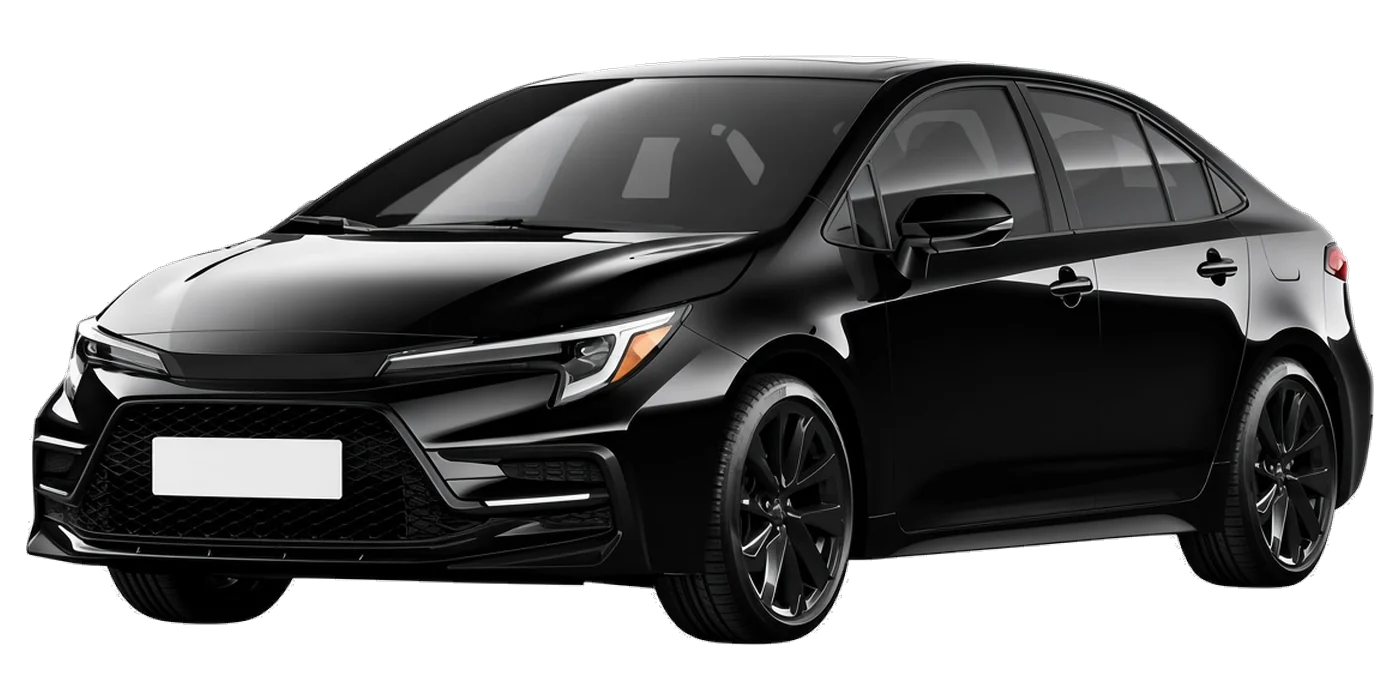
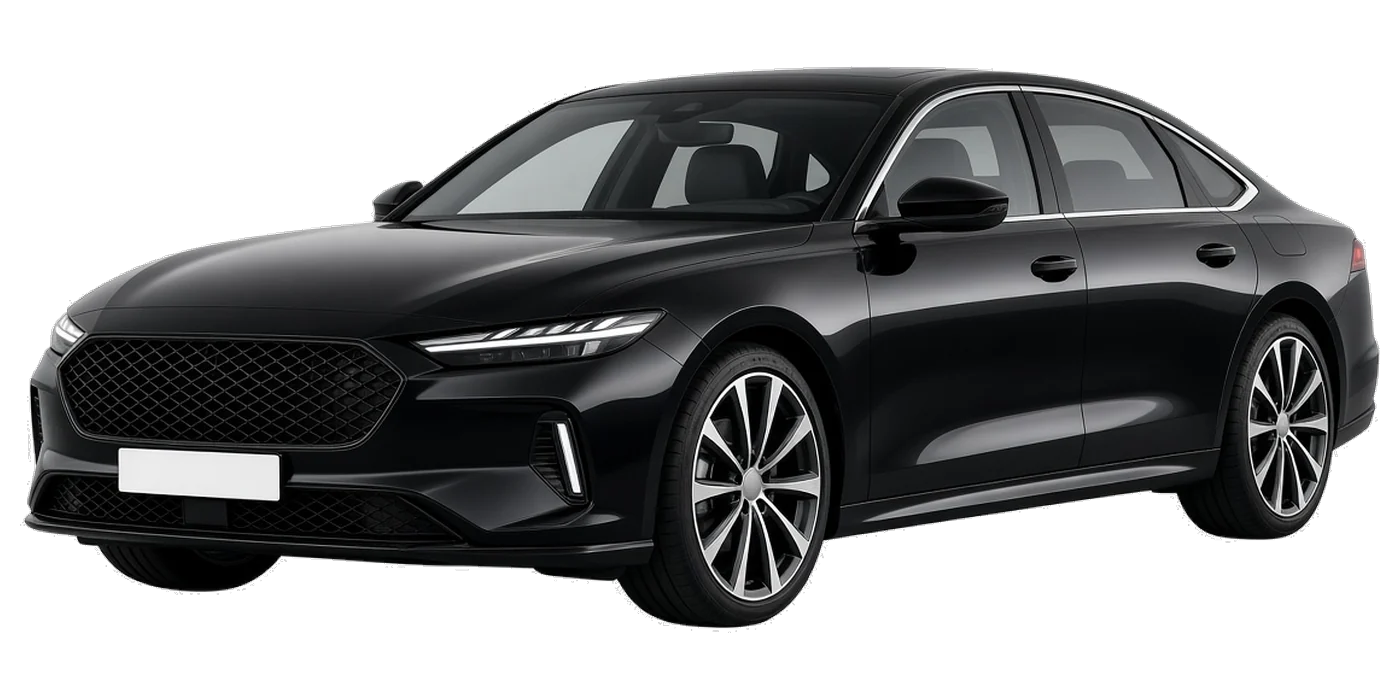
Raise Saloon capacity to 3 large suitcases and refresh the artwork.
The shared Saloon rule now allows 0–3 large suitcases, and quote, chooser, and payment checks use that same limit. Four large suitcases stay with Estate. The Saloon image is a larger modern sedan with no badge or readable plate.

diff --git a/scripts/check-executive-service.ts b/scripts/check-executive-service.ts
@@ -10,11 +10,14 @@ import {
   DEFAULT_EXECUTIVE_UPLIFT_GBP,
   EXECUTIVE_MAX_SUITCASES,
   EXECUTIVE_VEHICLE_TYPE,
+  SALOON_MAX_SUITCASES,
+  estateCapacityAllows,
   executiveAvailableForParty,
   executivePreferenceFields,
   formatExecutivePreferenceLines,
   isPremiumExecutiveVehicle,
   publicVehicleEligibilityMessage,
+  saloonCapacityAllows,
 } from "../shared/executive-service";
 import { defaultOwnerPricingSettings, normalizeOwnerPricingSettings } from "../shared/owner-pricing-config";
 import { getReturnJourneyFare } from "../src/lib/point-to-point-premium";
@@ -85,6 +88,19 @@ assert.equal(executiveAvailableForParty(4, 0), false);
 assert.equal(executiveAvailableForParty(4, 3), false);
 assert.equal(executiveAvailableForParty(3, 5), false);
 assert.equal(EXECUTIVE_MAX_SUITCASES, 3);
+assert.equal(SALOON_MAX_SUITCASES, 3);
+assert.equal(saloonCapacityAllows(2, 1), true);
+assert.equal(saloonCapacityAllows(2, 2), true);
+assert.equal(saloonCapacityAllows(4, 3), true);
+assert.equal(saloonCapacityAllows(2, 4), false);
+assert.equal(saloonCapacityAllows(4, 4), false);
+assert.equal(estateCapacityAllows(4, 4), true);
+assert.equal(estateCapacityAllows(2, 3), true);
+assert.equal(publicVehicleEligibilityMessage(SALOON, 2, 1), null);
+assert.equal(publicVehicleEligibilityMessage(SALOON, 2, 2), null);
+assert.equal(publicVehicleEligibilityMessage(SALOON, 4, 3), null);
+assert.equal(publicVehicleEligibilityMessage(SALOON, 2, 4), "Saloon is not suitable for your luggage.");
+assert.equal(publicVehicleEligibilityMessage(ESTATE, 2, 4), null);
 assert.equal(publicVehicleEligibilityMessage(EXECUTIVE_VEHICLE_TYPE, 2, 3), null);
 assert.equal(
   publicVehicleEligibilityMessage(EXECUTIVE_VEHICLE_TYPE, 2, 4),
@@ -195,7 +211,37 @@ const luggageSaloon = calculateAuthoritativeWebsiteQuote({
   vehicleType: SALOON,
   returnJourney: false,
 });
-assert.equal(luggageSaloon.ok, false);
+assert.equal(luggageSaloon.ok, true);
+
+const oneSuitcaseSaloon = calculateAuthoritativeWebsiteQuote({
+  ...quoteBase,
+  passengers: 2,
+  suitcases: 1,
+  vehicleType: SALOON,
+  returnJourney: false,
+});
+assert.equal(oneSuitcaseSaloon.ok, true);
+
+const twoSuitcaseSaloon = calculateAuthoritativeWebsiteQuote({
+  ...quoteBase,
+  passengers: 2,
+  suitcases: 2,
+  vehicleType: SALOON,
+  returnJourney: false,
+});
+assert.equal(twoSuitcaseSaloon.ok, true);
+
+const fourSuitcaseSaloon = calculateAuthoritativeWebsiteQuote({
+  ...quoteBase,
+  passengers: 2,
+  suitcases: 4,
+  vehicleType: SALOON,
+  returnJourney: false,
+});
+assert.equal(fourSuitcaseSaloon.ok, false);
+if (!fourSuitcaseSaloon.ok) {
+  assert.equal(fourSuitcaseSaloon.reason, "vehicle_unsuitable");
+}
 
 const luggageExecutive = calculateAuthoritativeWebsiteQuote({
   ...quoteBase,
@@ -232,6 +278,18 @@ const voluntaryEstate = calculateAuthoritativeWebsiteQuote({
   returnJourney: false,
 });
 assert.equal(voluntaryEstate.ok, true);
+
+const fourSuitcaseEstate = calculateAuthoritativeWebsiteQuote({
+  ...quoteBase,
+  passengers: 2,
+  suitcases: 4,
+  vehicleType: ESTATE,
+  returnJourney: false,
+});
+assert.equal(fourSuitcaseEstate.ok, true);
+if (fourSuitcaseEstate.ok) {
+  assert.equal(fourSuitcaseEstate.vehicleType, ESTATE);
+}
 if (voluntaryEstate.ok && saloonQuote.ok) {
   assert.equal(voluntaryEstate.vehicleType, ESTATE);
   assert.equal(
@@ -264,9 +322,9 @@ const categories = fs.readFileSync(
   path.join(import.meta.dirname, "../src/components/QuoteVehicleCategories.tsx"),
   "utf8",
 );
-assert.match(categories, /Great value, comfortable travel/);
-assert.match(categories, /Extra luggage space and versatility/);
-assert.match(categories, /Extra comfort for your journey/);
+assert.match(categories, /Modern, comfortable private airport travel/);
+assert.match(categories, /Additional space and luggage capacity/);
+assert.match(categories, /Enhanced comfort and premium extras/);
 assert.match(categories, /Recommended for extra space/);
 assert.match(categories, /Extra luggage space/);
 assert.match(categories, /More room for larger bags/);
@@ -298,6 +356,7 @@ const executiveSource = fs.readFileSync(
 assert.match(executiveSource, /Maximum 3 passengers/);
 assert.match(executiveSource, /Maximum 3 large suitcases/);
 assert.match(executiveSource, /EXECUTIVE_MAX_SUITCASES = 3/);
+assert.match(executiveSource, /SALOON_MAX_SUITCASES = 3/);
 assert.match(categories, /md:grid-cols-3/);
 assert.match(categories, /data-vehicle-expanded=/);
 assert.match(categories, /aria-pressed=\{isSelected\}/);
@@ -310,7 +369,15 @@ assert.match(categories, /quote-minibus\.webp/);
 assert.match(categories, /option\.vehicle === MINIBUS_VEHICLE \|\| option\.vehicle === automatic/);
 assert.doesNotMatch(categories, /\+£6/);
 assert.doesNotMatch(categories, /\+£20/);
-assert.doesNotMatch(categories, /Toyota|Corolla/);
+assert.doesNotMatch(categories, /Toyota|Corolla|Camry/);
+const paymentSource = fs.readFileSync(
+  path.join(import.meta.dirname, "../workers/addresses/src/index.ts"),
+  "utf8",
+);
+assert.match(
+  paymentSource,
+  /publicVehicleEligibilityMessage\(vehicleRaw, partyPassengers, partySuitcases\)/,
+);
 const artwork = fs.readFileSync(path.join(import.meta.dirname, "../src/lib/vehicle-artwork.ts"), "utf8");
 assert.match(artwork, /quote-standard-saloon\.webp/);
 assert.equal(

diff --git a/scripts/check-vehicle-selection.ts b/scripts/check-vehicle-selection.ts
@@ -3,8 +3,8 @@
  * Run: npx tsx scripts/check-vehicle-selection.ts
  *
  * Rule:
- * - Saloon: 1–4 passengers AND 0–2 suitcases
- * - Estate: 1–4 passengers AND 3–4 suitcases
+ * - Saloon: 1–4 passengers AND 0–3 suitcases
+ * - Estate: the default when Saloon cannot take the luggage (4 suitcases)
  * - Minibus: 5–7 passengers (or >4 suitcases for capacity)
  */
 
@@ -30,29 +30,30 @@ function expectVehicle(
   console.log(`OK  ${note}: ${passengers}p / ${suitcases}c → ${vehicleShortLabel(actual)}`);
 }
 
-console.log("=== Saloon (1–4 passengers AND 0–2 cases) ===");
+console.log("=== Saloon (1–4 passengers AND 0–3 cases) ===");
 expectVehicle(1, 0, SALOON_VEHICLE, "1p/0c");
 expectVehicle(1, 2, SALOON_VEHICLE, "1p/2c");
+expectVehicle(1, 3, SALOON_VEHICLE, "1p/3c");
 expectVehicle(2, 0, SALOON_VEHICLE, "2p/0c");
-expectVehicle(2, 2, SALOON_VEHICLE, "2p/2c boundary");
+expectVehicle(2, 2, SALOON_VEHICLE, "2p/2c");
+expectVehicle(2, 3, SALOON_VEHICLE, "2p/3c");
 expectVehicle(3, 0, SALOON_VEHICLE, "3p/0c — pax alone must NOT force Estate");
 expectVehicle(3, 1, SALOON_VEHICLE, "3p/1c");
 expectVehicle(3, 2, SALOON_VEHICLE, "3p/2c");
+expectVehicle(3, 3, SALOON_VEHICLE, "3p/3c");
 expectVehicle(4, 0, SALOON_VEHICLE, "4p/0c");
 expectVehicle(4, 2, SALOON_VEHICLE, "4p/2c");
+expectVehicle(4, 3, SALOON_VEHICLE, "4p/3c");
 
-console.log("\n=== Estate (1–4 pax AND 3–4 cases) ===");
-expectVehicle(1, 3, ESTATE_VEHICLE, "1p/3c");
+console.log("\n=== Estate when Saloon cannot take the luggage ===");
 expectVehicle(2, 4, ESTATE_VEHICLE, "2p/4c");
-expectVehicle(3, 3, ESTATE_VEHICLE, "3p/3c");
 expectVehicle(4, 4, ESTATE_VEHICLE, "4p/4c");
-expectVehicle(2, 3, ESTATE_VEHICLE, "2p/3c luggage threshold");
 
 console.log("\n=== Threshold flips ===");
-expectVehicle(4, 2, SALOON_VEHICLE, "still saloon at 4p/2c");
-expectVehicle(4, 3, ESTATE_VEHICLE, "estate at 4p/3c");
-expectVehicle(2, 2, SALOON_VEHICLE, "still saloon at 2 cases");
-expectVehicle(2, 3, ESTATE_VEHICLE, "estate at 3 cases");
+expectVehicle(4, 3, SALOON_VEHICLE, "still saloon at 4p/3c");
+expectVehicle(4, 4, ESTATE_VEHICLE, "estate at 4p/4c");
+expectVehicle(2, 3, SALOON_VEHICLE, "still saloon at 3 cases");
+expectVehicle(2, 4, ESTATE_VEHICLE, "estate at 4 cases");
 expectVehicle(4, 4, ESTATE_VEHICLE, "still estate at 4p/4c");
 expectVehicle(5, 1, MINIBUS_VEHICLE, "minibus at 5p");
 expectVehicle(4, 4, ESTATE_VEHICLE, "still estate at 4 cases");

diff --git a/src/lib/vehicle-selection.ts b/src/lib/vehicle-selection.ts
@@ -3,8 +3,8 @@
  * Monetary rates live in pricing-config.json and are not defined here.
  *
  * Public website capacity (customers choose among the options this allows):
- * - Standard Saloon: 1–4 passengers AND 0–2 suitcases
- * - Estate Car: suitable for 1–4 passengers and 0–4 suitcases; 3–4 suitcases
+ * - Standard Saloon: 1–4 passengers AND 0–3 suitcases
+ * - Estate Car: suitable for 1–4 passengers and 0–4 suitcases; 4 suitcases
  *   make Estate the lowest-priced suitable option
  * - Executive: 1–3 passengers AND 0–3 large suitcases (service upgrade).
  *   Four large suitcases are not Executive. Never assigned automatically.
@@ -21,8 +21,10 @@
 
 import {
   EXECUTIVE_VEHICLE_TYPE,
+  estateCapacityAllows,
   isLegacyExecutiveSaloon,
   isPremiumExecutiveVehicle,
+  saloonCapacityAllows,
 } from "../../shared/executive-service";
 import { MINIBUS_VEHICLE_TYPE, VEHICLE_TYPES, type VehicleType } from "./data";
 import {
@@ -67,8 +69,12 @@ export function selectVehicleForParty(
   if (requiresMinibus(passengers, suitcases)) {
     return MINIBUS_VEHICLE;
   }
-  // Estate only when luggage needs it — not merely because passengers are 3–4.
-  if (passengers >= 1 && passengers <= 4 && suitcases >= 3 && suitcases <= 4) {
+  // Saloon is the default whenever it fits, including 3 large suitcases.
+  // Estate is the default only when Saloon cannot take the luggage.
+  if (saloonCapacityAllows(passengers, suitcases)) {
+    return SALOON_VEHICLE;
+  }
+  if (estateCapacityAllows(passengers, suitcases)) {
     return ESTATE_VEHICLE;
   }
   return SALOON_VEHICLE;

diff --git a/shared/executive-service.ts b/shared/executive-service.ts
@@ -15,7 +15,8 @@ export const EXECUTIVE_MAX_PASSENGERS = 3;
 /** Up to 3 large suitcases. Four or more is not Executive. */
 export const EXECUTIVE_MAX_SUITCASES = 3;
 export const SALOON_MAX_PASSENGERS = 4;
-export const SALOON_MAX_SUITCASES = 2;
+/** Up to 3 large suitcases. Four large suitcases are not a Saloon booking. */
+export const SALOON_MAX_SUITCASES = 3;
 export const ESTATE_MAX_PASSENGERS = 4;
 export const ESTATE_MAX_SUITCASES = 4;
 
@@ -57,7 +58,7 @@ export function isLegacyExecutiveSaloon(vehicle: string | null | undefined): boo
   return /executive/i.test(value) && /saloon/i.test(value);
 }
 
-/** Saloon: 1–4 passengers and 0–2 large suitcases. */
+/** Saloon: 1–4 passengers and 0–3 large suitcases. */
 export function saloonCapacityAllows(passengers: number, suitcases: number): boolean {
   return (
     wholeInRange(passengers, 1, SALOON_MAX_PASSENGERS) &&
@@ -76,9 +77,9 @@ export function estateCapacityAllows(passengers: number, suitcases: number): boo
   );
 }
 
-/** True when 3–4 large suitcases make Estate the appropriate option. */
+/** True when Estate fits and Saloon does not, currently 4 large suitcases. */
 export function estateRecommendedForLuggage(passengers: number, suitcases: number): boolean {
-  return estateCapacityAllows(passengers, suitcases) && suitcases >= 3;
+  return estateCapacityAllows(passengers, suitcases) && !saloonCapacityAllows(passengers, suitcases);
 }
 
 /**

diff --git a/workers/addresses/shared/executive-service.ts b/workers/addresses/shared/executive-service.ts
@@ -15,7 +15,8 @@ export const EXECUTIVE_MAX_PASSENGERS = 3;
 /** Up to 3 large suitcases. Four or more is not Executive. */
 export const EXECUTIVE_MAX_SUITCASES = 3;
 export const SALOON_MAX_PASSENGERS = 4;
-export const SALOON_MAX_SUITCASES = 2;
+/** Up to 3 large suitcases. Four large suitcases are not a Saloon booking. */
+export const SALOON_MAX_SUITCASES = 3;
 export const ESTATE_MAX_PASSENGERS = 4;
 export const ESTATE_MAX_SUITCASES = 4;
 
@@ -57,7 +58,7 @@ export function isLegacyExecutiveSaloon(vehicle: string | null | undefined): boo
   return /executive/i.test(value) && /saloon/i.test(value);
 }
 
-/** Saloon: 1–4 passengers and 0–2 large suitcases. */
+/** Saloon: 1–4 passengers and 0–3 large suitcases. */
 export function saloonCapacityAllows(passengers: number, suitcases: number): boolean {
   return (
     wholeInRange(passengers, 1, SALOON_MAX_PASSENGERS) &&
@@ -76,9 +77,9 @@ export function estateCapacityAllows(passengers: number, suitcases: number): boo
   );
 }
 
-/** True when 3–4 large suitcases make Estate the appropriate option. */
+/** True when Estate fits and Saloon does not, currently 4 large suitcases. */
 export function estateRecommendedForLuggage(passengers: number, suitcases: number): boolean {
-  return estateCapacityAllows(passengers, suitcases) && suitcases >= 3;
+  return estateCapacityAllows(passengers, suitcases) && !saloonCapacityAllows(passengers, suitcases);
 }
 
 /**

diff --git a/shared/owner-pricing-config.ts b/shared/owner-pricing-config.ts
@@ -52,7 +52,7 @@ export const BANK_HOLIDAY_BEHAVIOUR_NOTE =
   "Daytime bank holidays are not an extra surcharge. There is no separate Bank Holiday calendar. Saturday and Sunday already qualify as Weekend. A weekday bank-holiday daytime journey is charged at the standard weekday rate unless it also falls inside Night hours.";
 
 export const MINIBUS_LUGGAGE_DECISION_NOTE =
-  "When public 7 Seater Minibus is ON, the public selector allows 0–7 large bags and 1–7 passengers. 5–7 passengers and 5–7 large bags require 7 Seater Minibus; Saloon/Estate keep their existing 1–4 passenger and 0–2 / 3–4 suitcase rules. 7 passengers + 7 large bags is accepted as a Minibus quote only — physical fit of every 7-seat vehicle for that combination has not been validated and is not treated as a Request Quote rule.";
+  "When public 7 Seater Minibus is ON, the public selector allows 0–7 large bags and 1–7 passengers. 5–7 passengers and 5–7 large bags require 7 Seater Minibus; Saloon keeps 1–4 passengers and 0–3 large suitcases; Estate keeps 1–4 passengers and 0–4 large suitcases. 7 passengers + 7 large bags is accepted as a Minibus quote only — physical fit of every 7-seat vehicle for that combination has not been validated and is not treated as a Request Quote rule.";
 
 export type OwnerPricingSchemaVersion = typeof OWNER_PRICING_SCHEMA_VERSION;
 

diff --git a/workers/addresses/shared/owner-pricing-config.ts b/workers/addresses/shared/owner-pricing-config.ts
@@ -52,7 +52,7 @@ export const BANK_HOLIDAY_BEHAVIOUR_NOTE =
   "Daytime bank holidays are not an extra surcharge. There is no separate Bank Holiday calendar. Saturday and Sunday already qualify as Weekend. A weekday bank-holiday daytime journey is charged at the standard weekday rate unless it also falls inside Night hours.";
 
 export const MINIBUS_LUGGAGE_DECISION_NOTE =
-  "When public 7 Seater Minibus is ON, the public selector allows 0–7 large bags and 1–7 passengers. 5–7 passengers and 5–7 large bags require 7 Seater Minibus; Saloon/Estate keep their existing 1–4 passenger and 0–2 / 3–4 suitcase rules. 7 passengers + 7 large bags is accepted as a Minibus quote only — physical fit of every 7-seat vehicle for that combination has not been validated and is not treated as a Request Quote rule.";
+  "When public 7 Seater Minibus is ON, the public selector allows 0–7 large bags and 1–7 passengers. 5–7 passengers and 5–7 large bags require 7 Seater Minibus; Saloon keeps 1–4 passengers and 0–3 large suitcases; Estate keeps 1–4 passengers and 0–4 large suitcases. 7 passengers + 7 large bags is accepted as a Minibus quote only — physical fit of every 7-seat vehicle for that combination has not been validated and is not treated as a Request Quote rule.";
 
 export type OwnerPricingSchemaVersion = typeof OWNER_PRICING_SCHEMA_VERSION;
 

diff --git a/scripts/check-quote-pax-luggage.ts b/scripts/check-quote-pax-luggage.ts
@@ -48,16 +48,16 @@ check("3 passengers / 0 suitcases", 3, 0, "saloon", "BFS", belfast);
 check("3 passengers / 2 suitcases", 3, 2, "saloon", "BFS", belfast);
 check("4 passengers / 2 suitcases", 4, 2, "saloon", "BFS", belfast);
 check("4 passengers / 4 suitcases", 4, 4, "estate", "BFS", belfast);
-check("1 passenger / 3 suitcases", 1, 3, "estate", "BFS", belfast);
+check("1 passenger / 3 suitcases", 1, 3, "saloon", "BFS", belfast);
 check("2 passengers / 4 suitcases", 2, 4, "estate", "BFS", belfast);
-check("3 passengers / 3 suitcases", 3, 3, "estate", "BFS", belfast);
+check("3 passengers / 3 suitcases", 3, 3, "saloon", "BFS", belfast);
 check("5–7 passengers", 5, 1, "minibus", "BFS", belfast);
 check("5+ suitcases", 2, 5, "minibus", "BFS", belfast);
 check("7 passengers", 7, 2, "minibus", "BFS", belfast);
 check("Belfast City Airport", 2, 1, "saloon", "BHD", belfast);
 check("Belfast International", 2, 1, "saloon", "BFS", belfast);
 check("Dublin Airport", 2, 1, "saloon", "DUB", belfast);
-check("BFS estate luggage", 2, 3, "estate", "BFS", belfast);
+check("BFS estate luggage", 2, 4, "estate", "BFS", belfast);
 
 assert.equal(selectVehicleForParty(2, 2), SALOON_VEHICLE);
 assert.equal(selectVehicleForParty(3, 2), SALOON_VEHICLE);

diff --git a/src/components/QuoteVehicleCategories.tsx b/src/components/QuoteVehicleCategories.tsx
@@ -55,8 +55,8 @@ const CATEGORIES = [
     id: "saloon",
     vehicle: SALOON_VEHICLE,
     title: "Saloon",
-    short: "Great value, comfortable travel",
-    detail: "Great value, comfortable travel",
+    short: "Modern, comfortable private airport travel",
+    detail: "Modern, comfortable private airport travel",
     image: STANDARD_SALOON_IMAGE,
     imageAlt: "Saloon airport transfer",
   },
@@ -64,8 +64,8 @@ const CATEGORIES = [
     id: "estate",
     vehicle: ESTATE_VEHICLE,
     title: "Estate",
-    short: "Extra luggage space and versatility",
-    detail: "Extra luggage space and versatility",
+    short: "Additional space and luggage capacity",
+    detail: "Additional space and luggage capacity",
     image: ESTATE_IMAGE,
     imageAlt: "Estate airport transfer",
   },
@@ -73,8 +73,8 @@ const CATEGORIES = [
     id: "executive",
     vehicle: EXECUTIVE_VEHICLE,
     title: "Executive",
-    short: "Extra comfort for your journey",
-    detail: "Extra comfort for your journey",
+    short: "Enhanced comfort and premium extras",
+    detail: "Enhanced comfort and premium extras",
     image: EXECUTIVE_IMAGE,
     imageAlt: "Executive airport transfer",
   },

diff --git a/scripts/check-quote-vehicle-fare-refresh.ts b/scripts/check-quote-vehicle-fare-refresh.ts
@@ -54,8 +54,9 @@ console.log("=== Estate premium stays £6 in the pricing engine ===");
 {
   assert.equal(UNIVERSAL_ESTATE_PREMIUM_GBP, 6);
   assert.equal(selectVehicleForParty(2, 2), SALOON_VEHICLE);
-  assert.equal(selectVehicleForParty(2, 3), ESTATE_VEHICLE);
-  console.log("OK  2p/2 bags = Saloon; 2p/3 bags = Estate; premium £6");
+  assert.equal(selectVehicleForParty(2, 3), SALOON_VEHICLE);
+  assert.equal(selectVehicleForParty(2, 4), ESTATE_VEHICLE);
+  console.log("OK  2p/3 bags = Saloon; 2p/4 bags = Estate; premium £6");
 }
 
 console.log("\n=== BFS: luggage Saloon → Estate changes fare immediately by £6 ===");
@@ -109,7 +110,7 @@ console.log("\n=== BFS: luggage Saloon → Estate changes fare immediately by £
     airportCode: "BFS",
     fromAirport: false,
     passengers: 2,
-    suitcases: 3,
+    suitcases: 4,
     returnJourney: false,
     routeMetrics: cityBfsMetrics,
   });

diff --git a/scripts/check-luggage-capacity-confirmation.ts b/scripts/check-luggage-capacity-confirmation.ts
@@ -357,7 +357,7 @@ async function main() {
   check("16. Existing Saloon/Estate behaviour remains unchanged", () => {
     assert.equal(selectVehicleForParty(1, 0), SALOON_VEHICLE);
     assert.equal(selectVehicleForParty(4, 2), SALOON_VEHICLE);
-    assert.equal(selectVehicleForParty(2, 3), ESTATE_VEHICLE);
+    assert.equal(selectVehicleForParty(2, 3), SALOON_VEHICLE);
     assert.equal(selectVehicleForParty(4, 4), ESTATE_VEHICLE);
     assert.equal(needsLuggageCapacityConfirmation(4, 4), false);
     const saloon = calculateAuthoritativeWebsiteQuote(

diff --git a/scripts/check-public-minibus-capacity.ts b/scripts/check-public-minibus-capacity.ts
@@ -186,7 +186,7 @@ check("14. 8 large bags => rejected", () => {
 check("15. Existing 1–4 passenger Saloon/Estate behaviour unchanged", () => {
   assert.equal(selectVehicleForParty(1, 0), SALOON_VEHICLE);
   assert.equal(selectVehicleForParty(4, 2), SALOON_VEHICLE);
-  assert.equal(selectVehicleForParty(2, 3), ESTATE_VEHICLE);
+  assert.equal(selectVehicleForParty(2, 3), SALOON_VEHICLE);
   assert.equal(selectVehicleForParty(4, 4), ESTATE_VEHICLE);
   assert.equal(requiresMinibus(4, 4), false);
   const saloon = calculateAuthoritativeWebsiteQuote(
